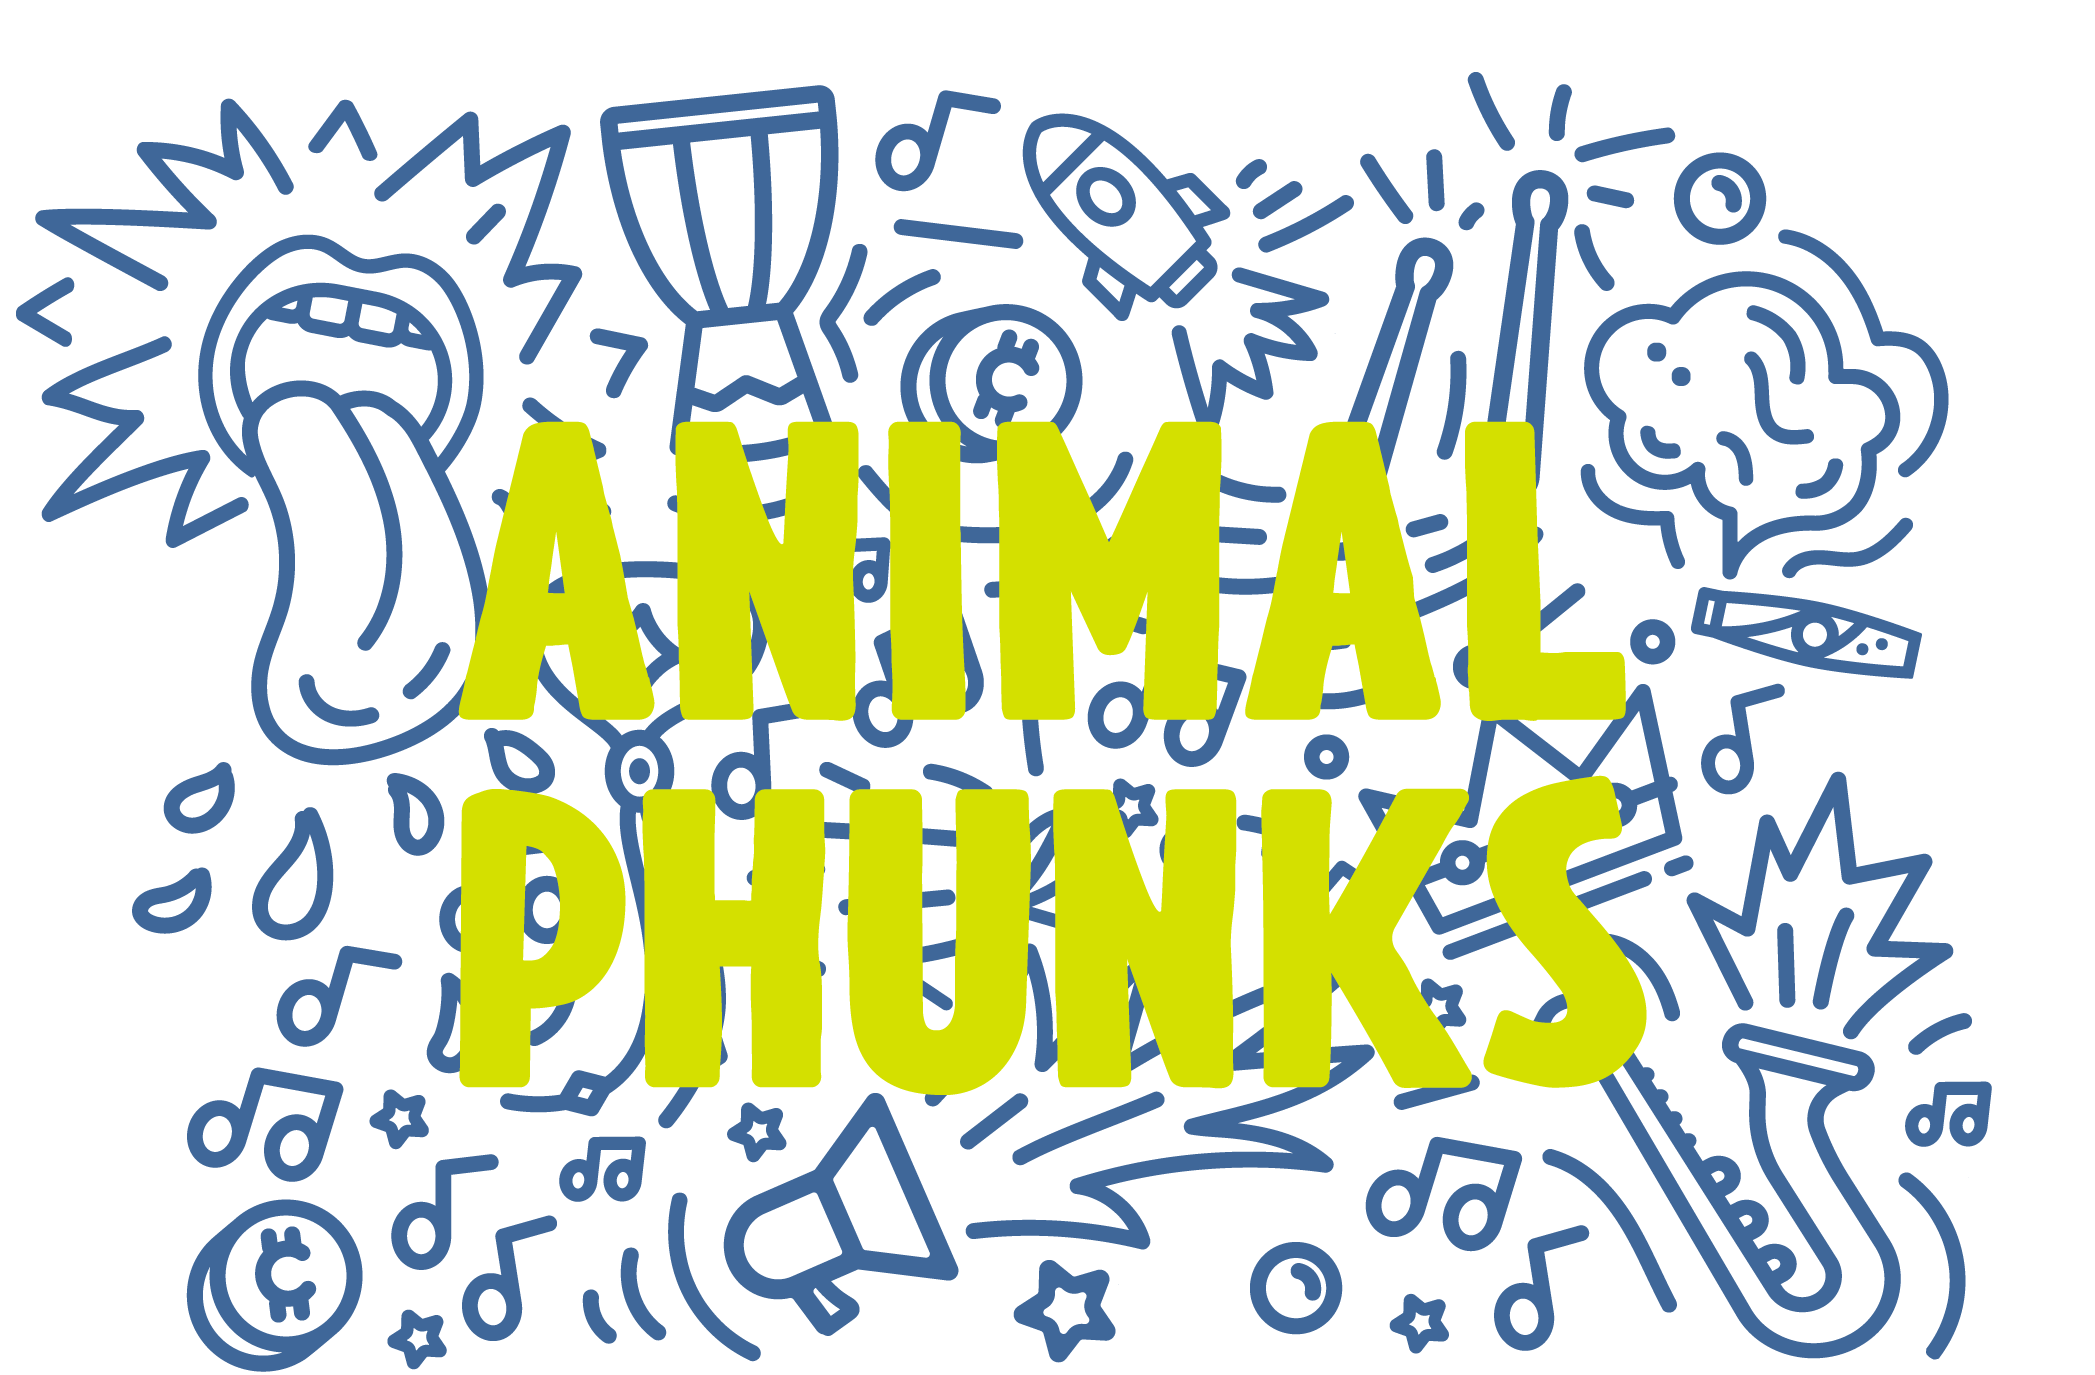
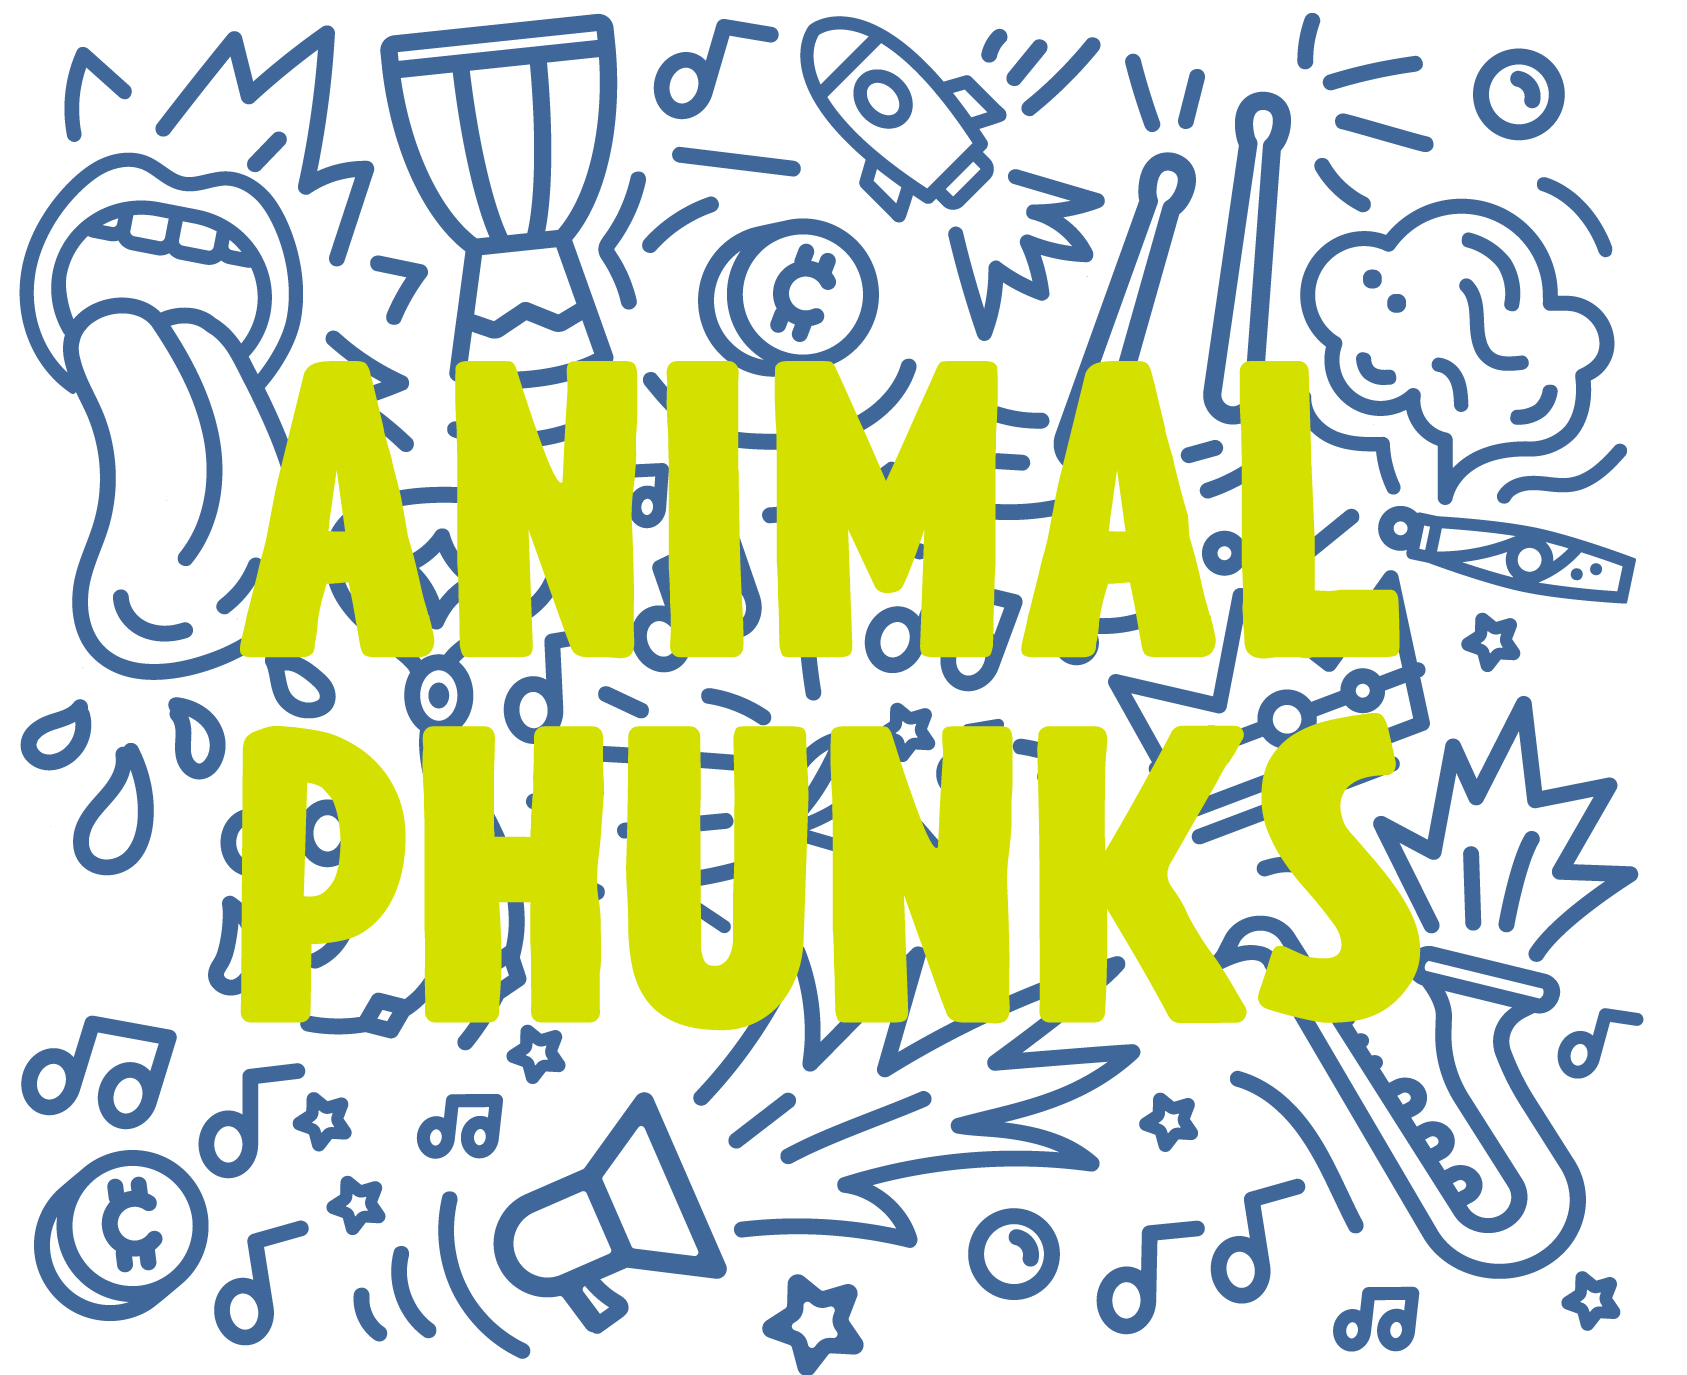
PhunkHero Update

diff --git a/src/styles/styles.css b/src/styles/styles.css
@@ -82,7 +82,7 @@ body {
 
 .card_header_image {
   position: absolute;
-  width: 170%;
+  width: 130%;
 }
 
 .card_body {
